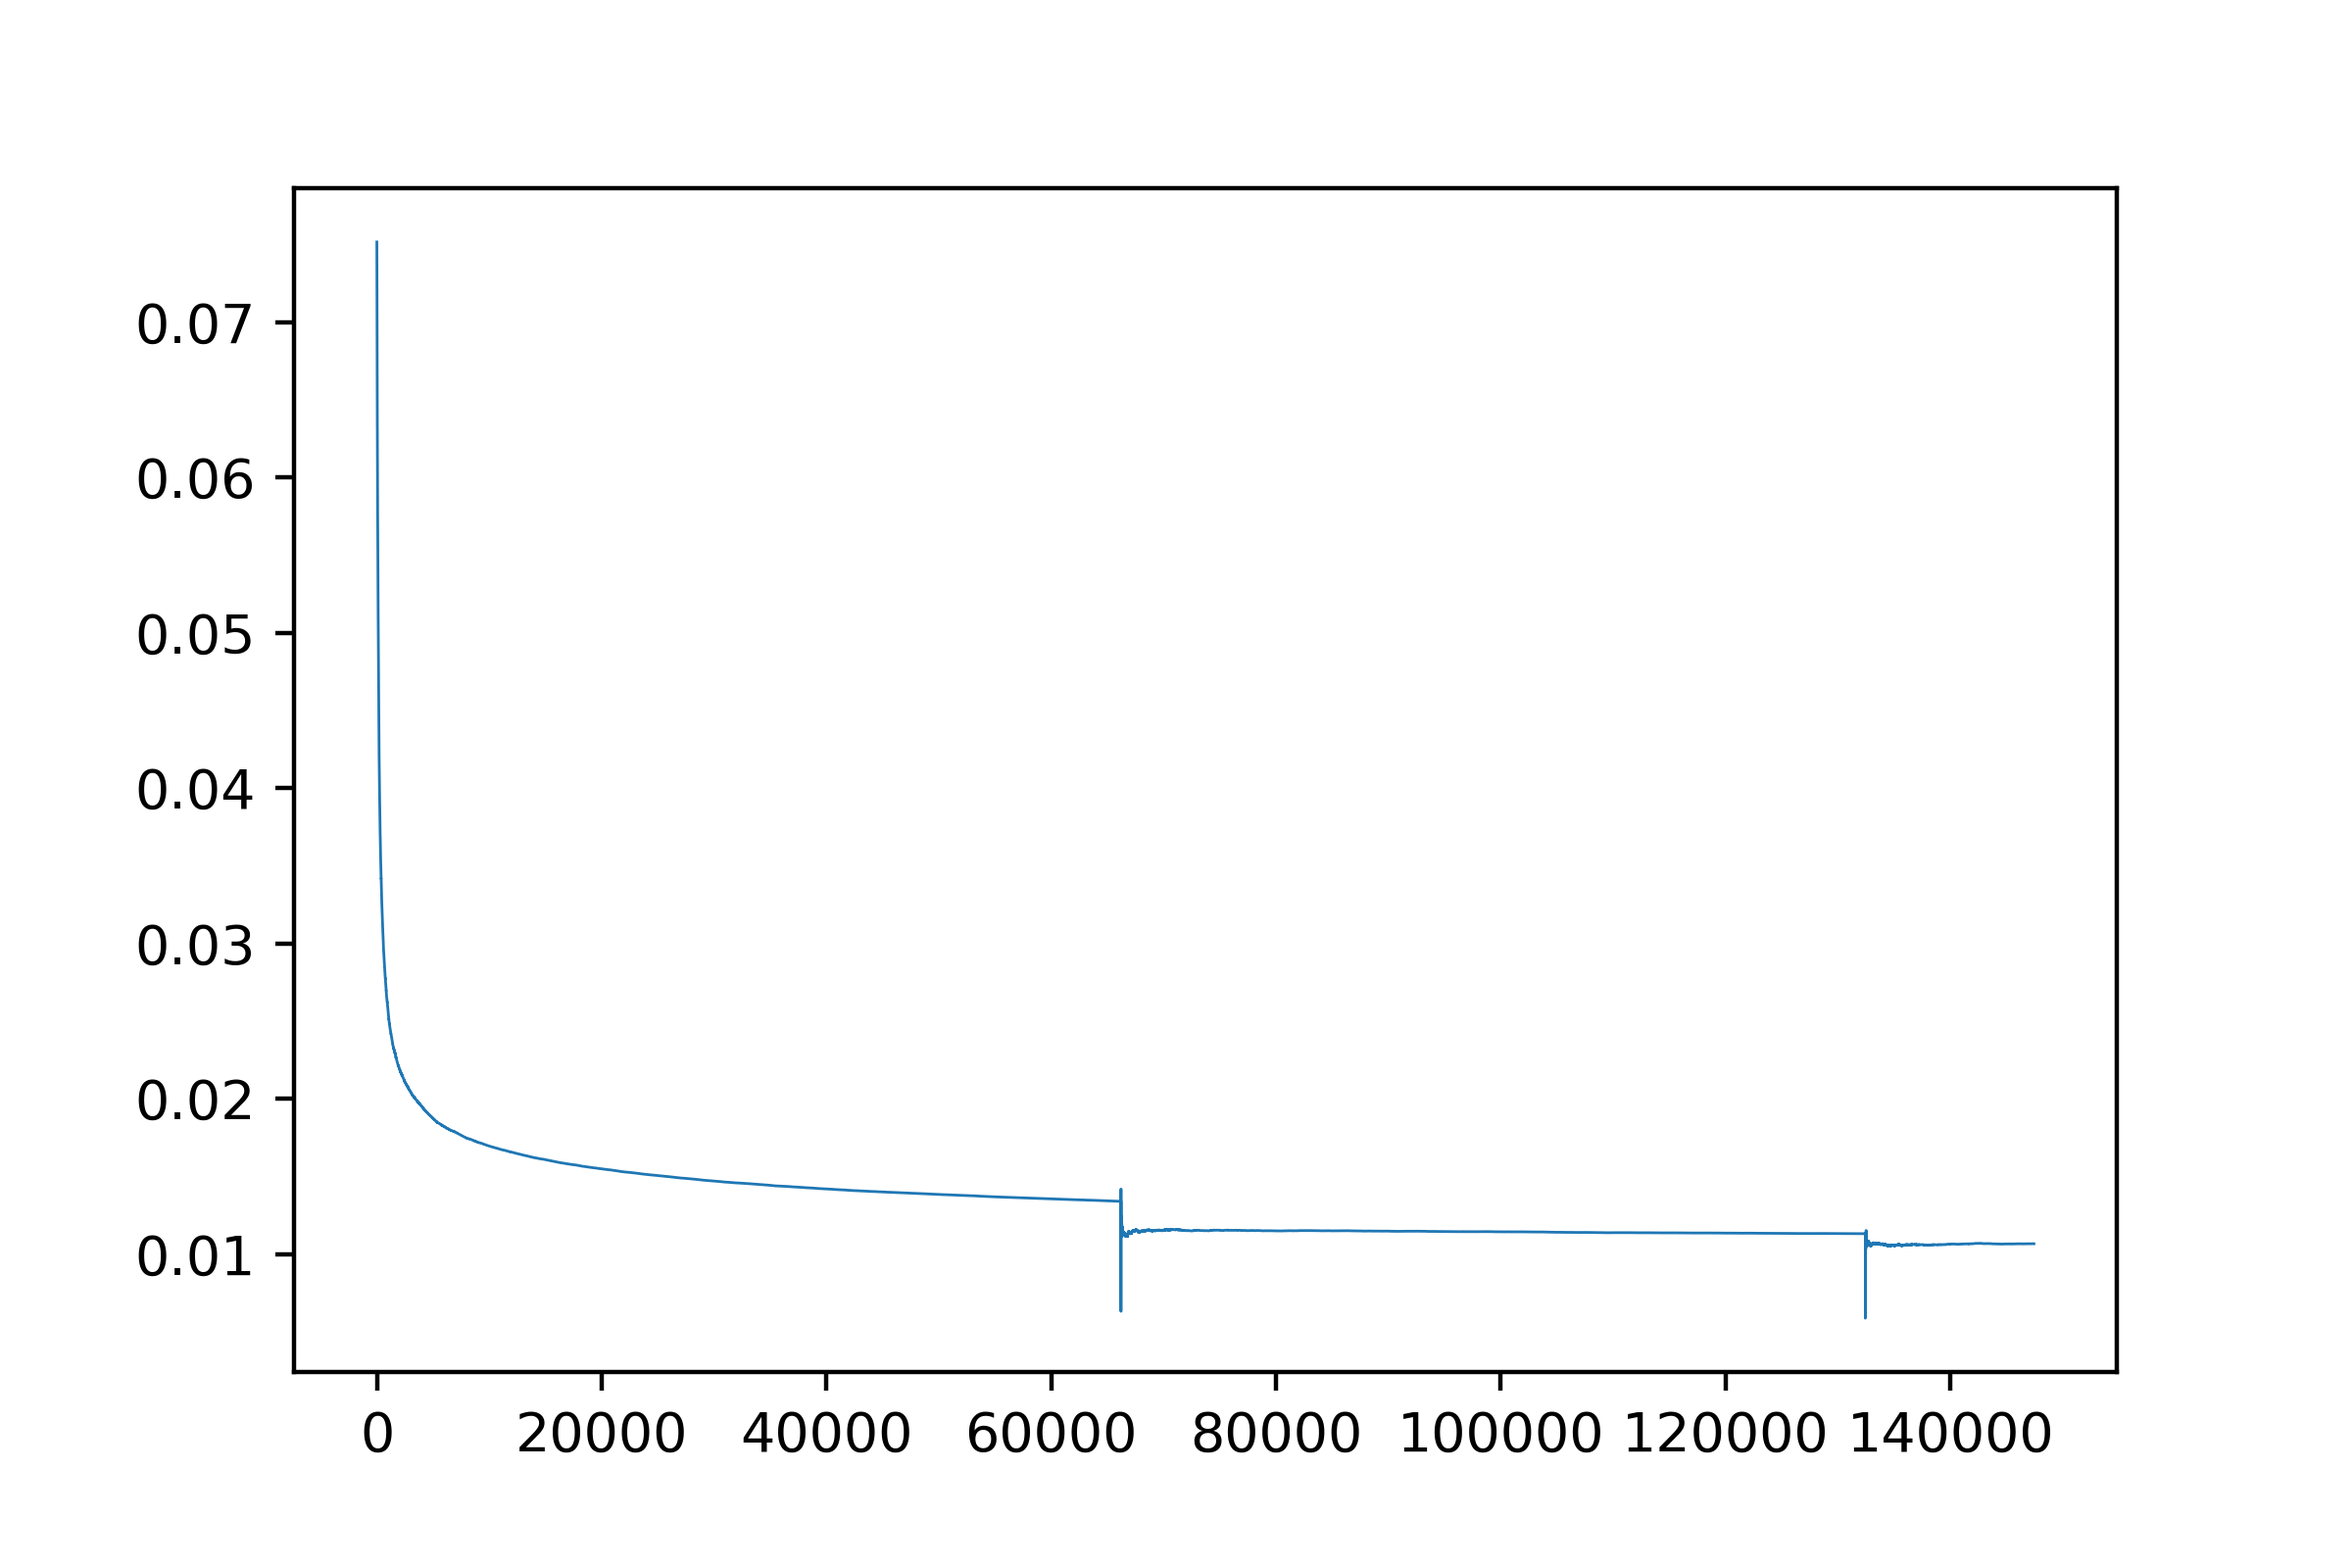
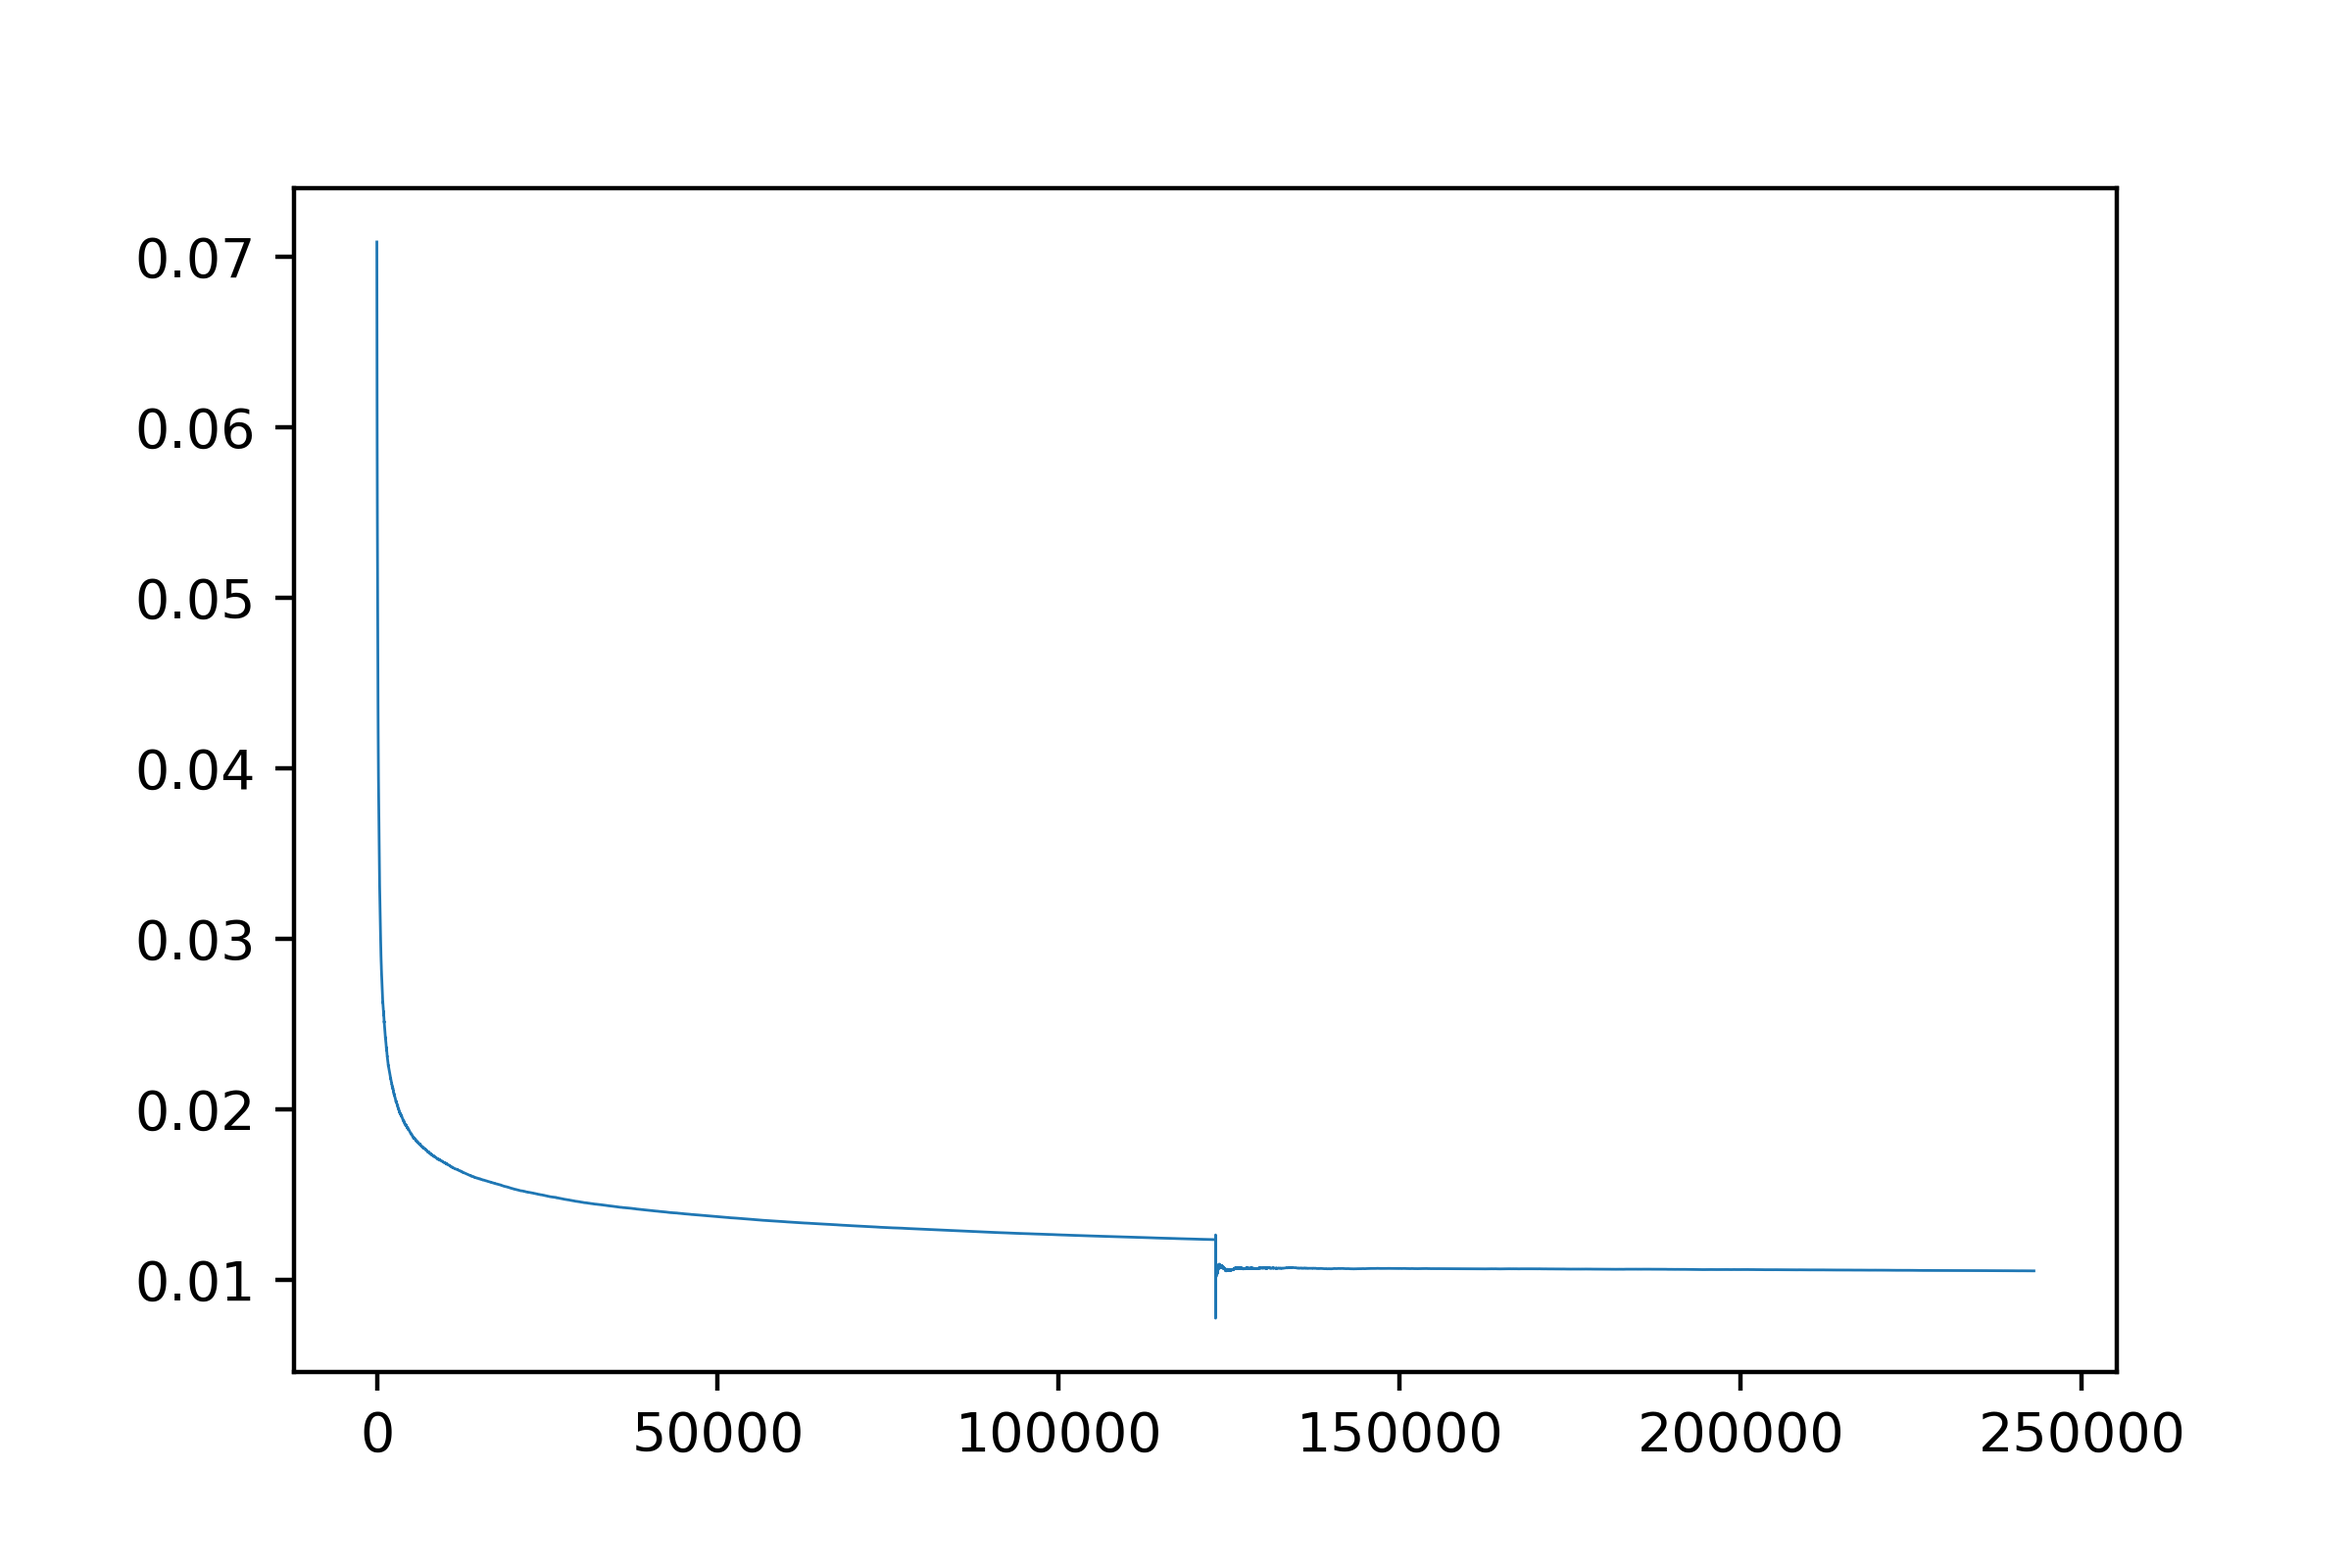
changed data generator to a self-play system.
Thanks to Andrew Grant for the recommendation!

diff --git a/Data/generator.py b/Data/generator.py
@@ -6,6 +6,7 @@ import sys
 import threading
 from threading import Lock
 from math import floor
+import random
 
 pgn = None
 outfile = None
@@ -25,22 +26,39 @@ def sf_evaluation_to_string(x):
 
 linesDone = 0
 
+def get_random_opening(stockfish : Stockfish):
+    board = chess.Board()
+    for i in range(6):
+        legalMoves = list(board.legal_moves)
+        board.push(legalMoves[random.randint(0, len(legalMoves)-1)])
+    
+    fen = board.fen()
+    stockfish.set_fen_position(fen)
+    evaluation = stockfish.get_evaluation()
+    diff = abs(evaluation['value'])
 
-def write_game(game, stockfish):
+    if diff < 150 and evaluation['type'] == 'cp':
+        return fen
+
+    return get_random_opening(stockfish)
+
+def write_game(game, stockfish : Stockfish):
     global linesDone
+
+    startpos = get_random_opening(stockfish)
+
     lines = ["", "", "", "", ""]
 
-    board = chess.Board()
-    for move in game:
-        board.push(move)
-        if board.is_game_over(): break
-
-        stockfish.set_fen_position(board.fen())
+    board = chess.Board(startpos)
+    while not board.is_game_over():
         multipv = stockfish.get_top_moves(5)
 
         diff = abs(sf_sigmoid(multipv[0]) - sf_sigmoid(multipv[-1]))
+
+        board.push_uci(multipv[0]["Move"])
+        stockfish.make_moves_from_current_position([multipv[0]["Move"]])
+
         if diff > .4999:
-            # print("rejected", board.fen(), diff)
             continue
 
         evalString = sf_evaluation_to_string(multipv[0])
@@ -67,11 +85,11 @@ def run(filename):
     global pgn, outfile
     pgn = open(filename + '.pgn', 'r')
     outfile = [
-        open("1.csv", 'w'),
-        open("2.csv", 'w'),
-        open("3.csv", 'w'),
-        open("4.csv", 'w'),
-        open("5.csv", 'w')
+        open("1.csv", 'a'),
+        open("2.csv", 'a'),
+        open("3.csv", 'a'),
+        open("4.csv", 'a'),
+        open("5.csv", 'a')
         ]
 
     threads = []
@@ -81,7 +99,6 @@ def run(filename):
             games = []
             for i in range(20):
                 games.append(list(chess.pgn.read_game(pgn).mainline_moves()))
-            # write_games(games)
             thread = threading.Thread(target=write_games, args=(games,))
             thread.start()
             threads.append(thread)
